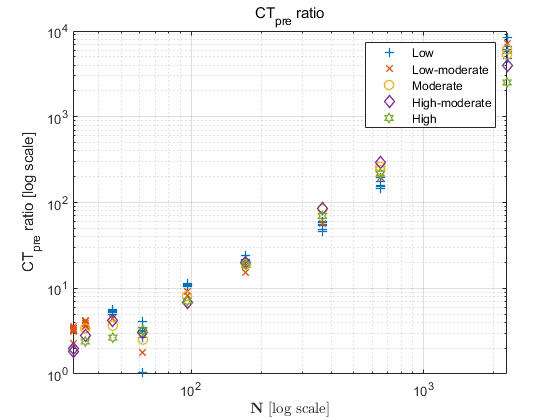
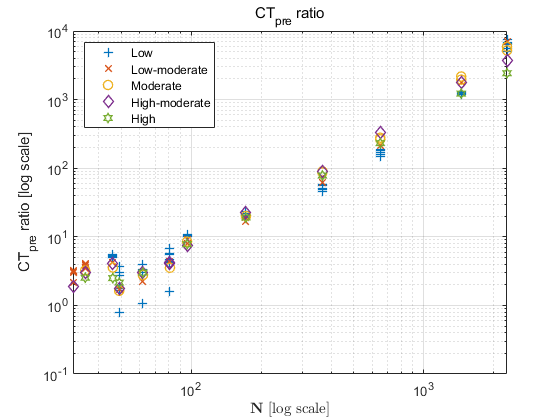
update 0708

Changed region(s): [[0.0911, 0.0619, 0.9411, 0.8976], [0.0304, 0.3095, 0.1214, 0.65], [0.0911, 0.8667, 0.1214, 0.9286]]

diff --git a/pathPlanning_reserach/MC_analysis.m b/pathPlanning_reserach/MC_analysis.m
@@ -199,7 +199,7 @@ xlabel('$\mathcal{K}$','Interpreter','latex')
 ylabel('CT ratio [log scale]')
 title('CT Ratio')
 % set(get(h,'Parent'), 'XScale','log')
-legend('N <= 100','N <= 1000','N > 1000')
+legend('N <= 100','N <= 1000','N > 1000','Location','best')
 set(gca,'children',flipud(get(gca,'children')))
 
 % figure(113)
@@ -276,7 +276,7 @@ grid on
 xlabel('$\textbf{N}$ [log scale]','Interpreter','latex')
 ylabel('CT ratio [log scale]')
 title('CT ratio')
-legend('Low','Low-moderate','Moderate','High-moderate','High')
+legend('Low','Low-moderate','Moderate','High-moderate','High','Location','northwest')
 
 % figure(441)
 % clf
@@ -376,7 +376,7 @@ xlabel('$\mathcal{K}$','Interpreter','latex')
 ylabel('CT_{pre} ratio [log scale]')
 title('CT_{pre} ratio')
 % set(get(h,'Parent'), 'XScale','log') 
-legend('N <= 100','N <= 1000','N > 1000')
+legend('N <= 100','N <= 1000','N > 1000','Location','best')
 set(gca,'children',flipud(get(gca,'children')))
 
 
@@ -391,7 +391,7 @@ grid on
 title('CT_{pre} ratio')
 xlabel('$\textbf{N}$ [log scale]','Interpreter','latex')
 ylabel('CT_{pre} ratio [log scale]')
-legend('Low','Low-moderate','Moderate','High-moderate','High')
+legend('Low','Low-moderate','Moderate','High-moderate','High','Location','northwest')
 
 figure(3)
 clf
@@ -419,7 +419,7 @@ grid on
 title('CT_{s} ratio')
 ylabel('CT_{s} ratio')
 xlabel('$\textbf{N}$ [log scale]','Interpreter','latex')
-legend('Low','Low-moderate','Moderate','High-moderate','High')
+legend('Low','Low-moderate','Moderate','High-moderate','High','Location','northwest')
 
 
 % figure(5)
@@ -459,7 +459,7 @@ ylabel('proportion [%]')
 % title('Ratio of time spent on complete graph construction')
 % title('Ratio of CT_{cg}/CT')
 title('Proportion of CT_{pre} to CT')
-legend('Pure ACS', 'Proposed Algorithm')
+legend('Pure ACS', 'Proposed Algorithm','Location','northwest')
 %% function
 
 function output = meanStdProcess(input)
